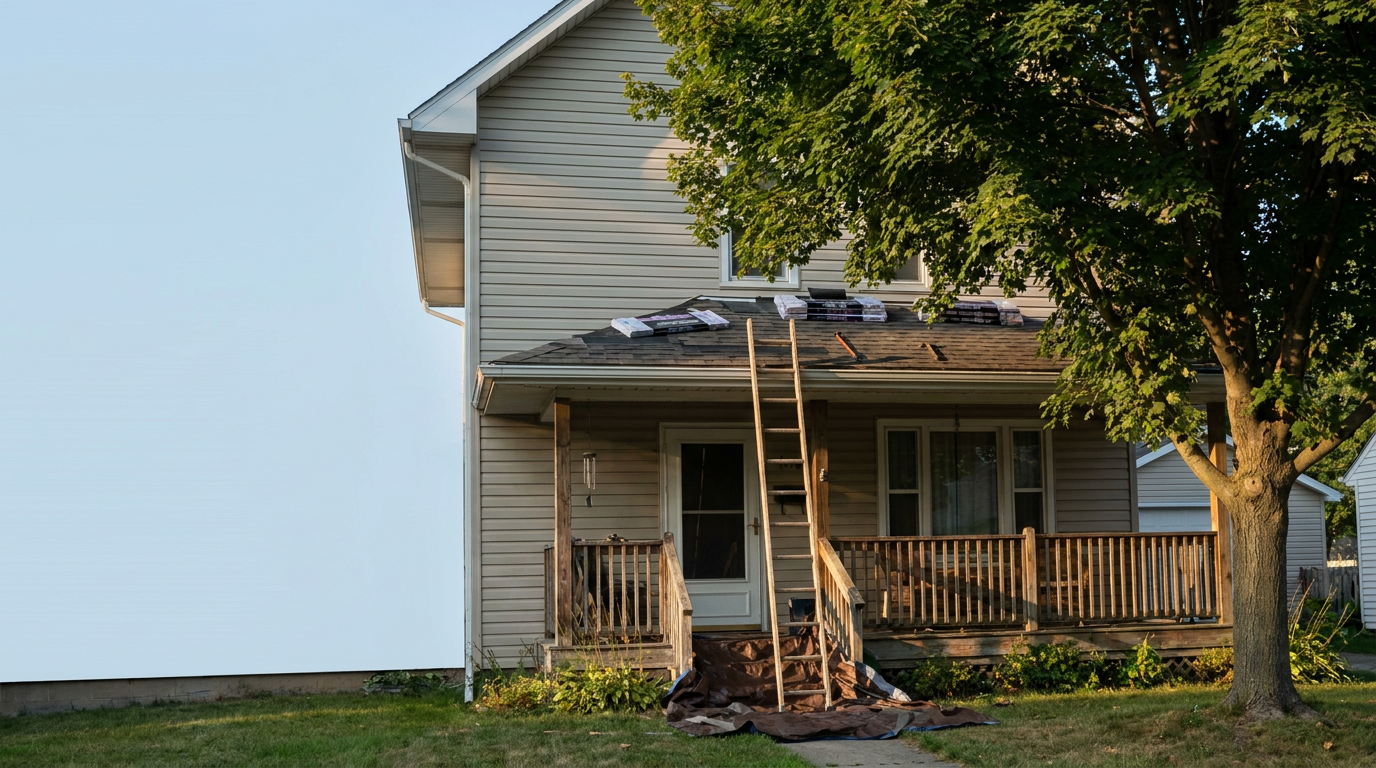
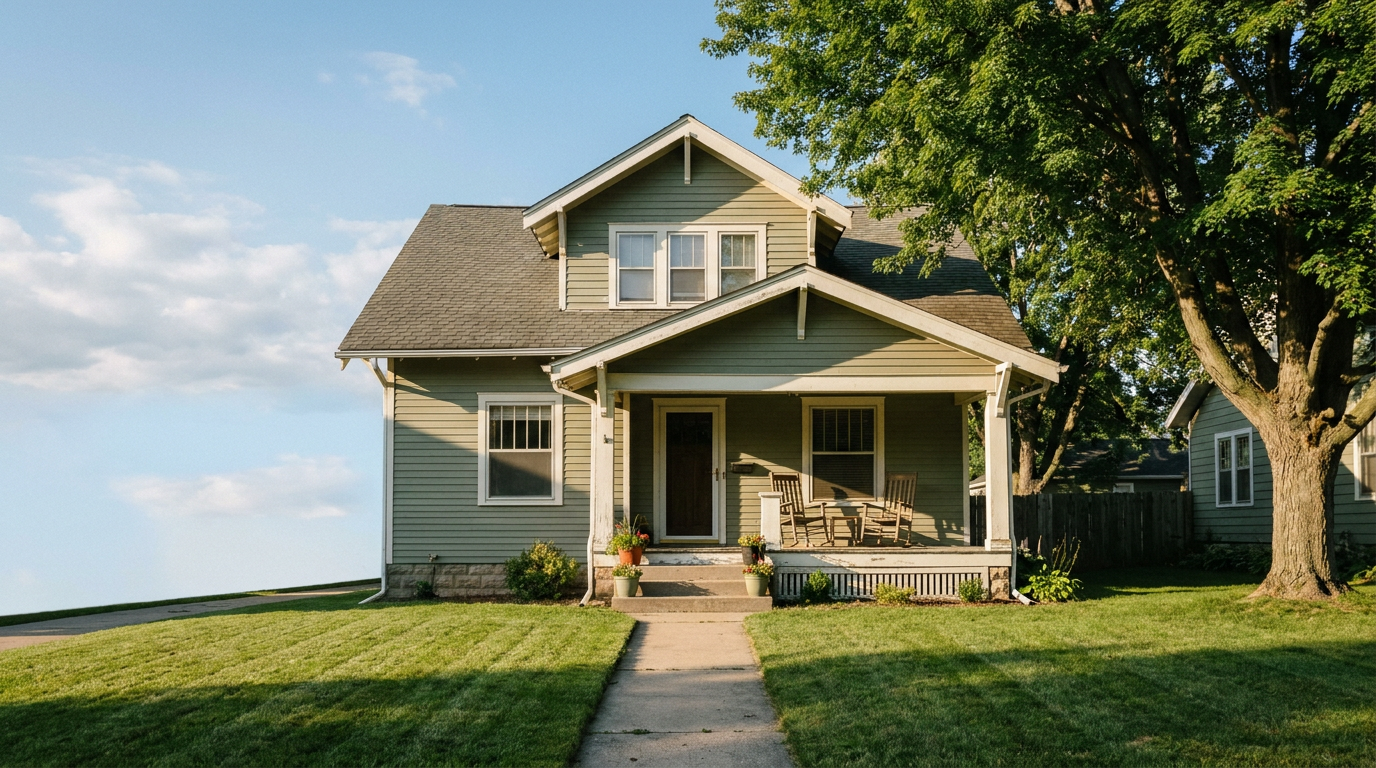
Regenerate three off-brief gallery photographs.
Move-in-ready house exteriors without ladders or construction, and an oil-service bay that keeps the car grille and any brand badge out of frame. The spend log stays in .data and is not committed.

diff --git a/lib/mail-templates/gallery-photos.ts b/lib/mail-templates/gallery-photos.ts
@@ -83,9 +83,9 @@ const TEMPLATE_SCENE: Record<string, string> = {
   "realestate-home-value":
     "The finished front porch and tidy concrete walkway of a well-kept lived-in house in late afternoon light, a shade tree on a mowed lawn, the property complete and empty, no construction materials, no bags, no lettering, no signs, and no people.",
   "realestate-just-listed":
-    "A well-kept single-family house on a quiet residential street in warm late light, a walkway and a tree, no for-sale sign, no people.",
+    "An attractive finished move-in-ready single-family house exterior on a quiet residential street in warm late afternoon light, a tidy front walkway, a freshly mowed lawn, and a shade tree, the property complete and ready to show, no ladders, no construction, no tools, no drop cloths, no building materials, no roof work, no signs, no lettering, and no people. Single photograph, one scene, not a collage.",
   "realestate-thinking-of-selling":
-    "The front of a well-kept lived-in house, a walkway, a front porch, and a shade tree, no sign and no people.",
+    "The finished front of an attractive move-in-ready lived-in house with a front porch, a tidy walkway, and a shade tree on a mowed lawn in late-day sun, the property complete and ready to show, no ladders, no roof work, no construction, no tools, no stacked shingles, no drop cloths, no signs, no lettering, and no people. Single photograph, one scene, not a collage.",
   "landscaping-spring-cleanup":
     "A tidy front yard with a mowed lawn, fresh dark mulch beds, and a wheelbarrow of mulch at rest in morning light, no people.",
   "landscaping-lawn-plan":
@@ -95,7 +95,7 @@ const TEMPLATE_SCENE: Record<string, string> = {
   "auto-repair-brake-check":
     "A close view of a rusty brake rotor and caliper on a car raised on a two-post lift in a clean empty service bay, no people and no logos.",
   "auto-repair-oil-service":
-    "A car with its hood open in a bright empty auto service bay, an oil drain pan and tools on the floor, no people and no badges.",
+    "A close side view looking into an open engine compartment during an oil change in a bright empty auto service bay, an oil drain pan on the concrete floor under the engine, only the engine, the underside of the open hood, and nearby concrete visible, the front bumper, grille, headlights, and any manufacturer emblem or badge kept completely out of the frame, no license plate, no brand logos, no readable bottle labels, no lettering, the bay unoccupied, no people. Single photograph, one scene, not a collage.",
   "auto-repair-inspection":
     "A close view of a brake rotor and caliper on a car raised on a two-post lift in a clean empty auto service bay, an impact wrench resting unused on the floor, the bay unoccupied, no people, no hands, no arms, and no logos.",
   "cleaning-first-visit":
